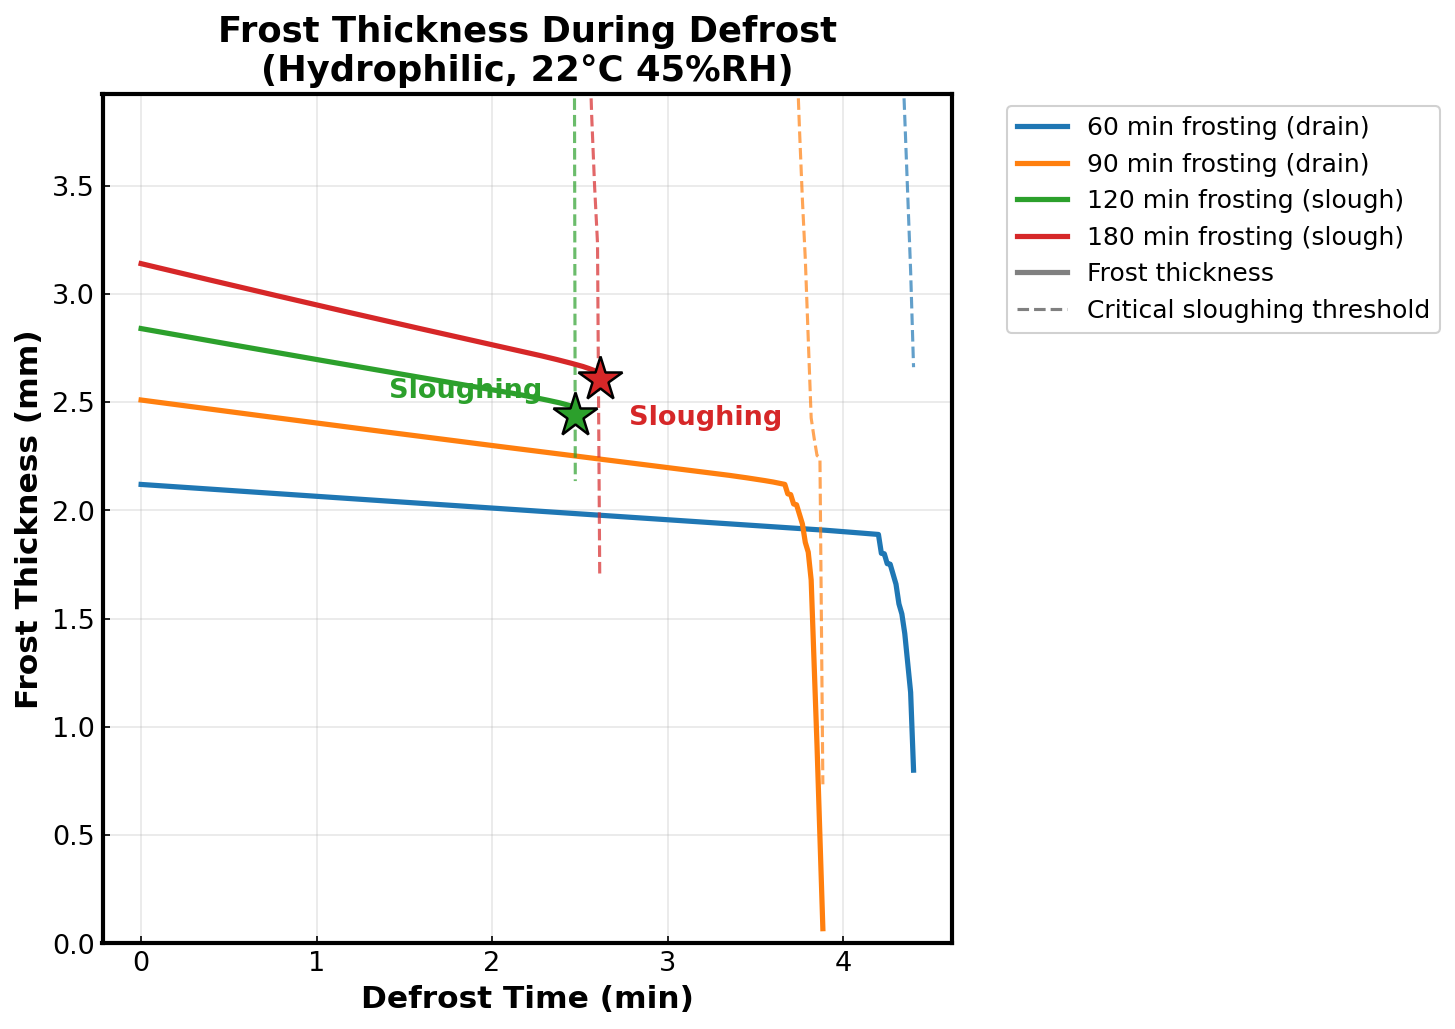
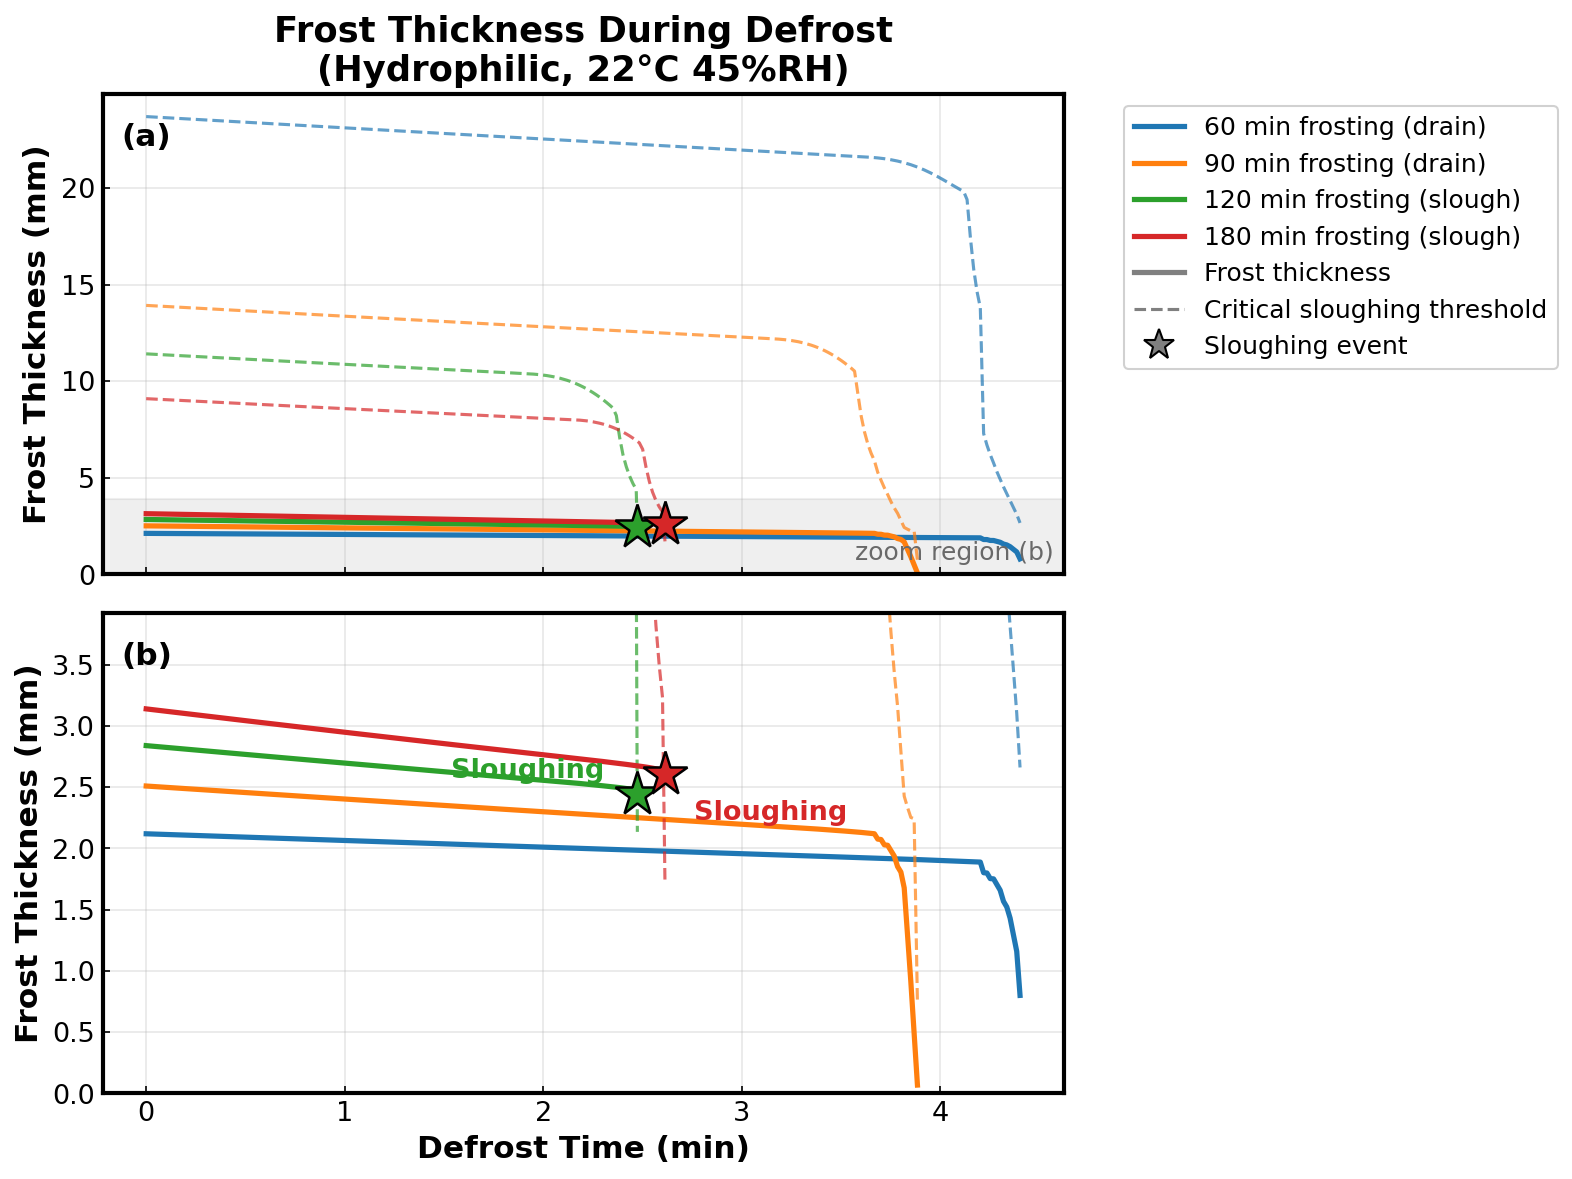
Split defrost thickness figure into full-view and zoom panels
The critical sloughing threshold starts an order of magnitude above the
frost thickness (9-24 mm vs 2-3 mm), so a single panel cannot show both.
Panel (a) shows the full threshold curves with the zoom region shaded;
panel (b) zooms on the frost thickness range where the thresholds cross
the thickness curves at the starred sloughing events.

Changed region(s): [[0.0, 0.0, 1.0, 0.9951], [0.5258, 0.1244, 0.5567, 0.1555]]

diff --git a/plot_defrost_thickness_comparison.py b/plot_defrost_thickness_comparison.py
@@ -85,10 +85,17 @@ def get_case_history(data_file, results_dir='sim_results/defrost_histories'):
     return history
 
 
-def plot_defrost_thickness_comparison(cases=None, output_dir='figure', figsize=(10, 7)):
+def plot_defrost_thickness_comparison(cases=None, output_dir='figure', figsize=(10, 8)):
     """
     Plot total frost thickness vs defrost time for several cases, with the
     critical sloughing thickness threshold and sloughing events marked.
+
+    Two vertically stacked panels:
+    (a) full view — thickness together with the complete critical sloughing
+        threshold curves, whose pre-melting values are an order of magnitude
+        larger than the frost thickness;
+    (b) zoom on the frost thickness range, where the threshold curves cross
+        the thickness curves at the sloughing events.
 
     Parameters
     ----------
@@ -112,9 +119,10 @@ def plot_defrost_thickness_comparison(cases=None, output_dir='figure', figsize=(
 
     colors = ['#1f77b4', '#ff7f0e', '#2ca02c', '#d62728', '#9467bd']
 
-    fig, ax = plt.subplots(figsize=figsize)
+    fig, (ax1, ax2) = plt.subplots(2, 1, figsize=figsize, sharex=True)
 
     max_thickness_mm = 0.0
+    max_crit_mm = 0.0
     n_slough_marked = 0
     for i, case in enumerate(cases):
         hist = histories[case]
@@ -123,59 +131,79 @@ def plot_defrost_thickness_comparison(cases=None, output_dir='figure', figsize=(
         h_total_mm = hist['h_total'] * 1000
         h_crit_mm = hist['h_crit'] * 1000
         max_thickness_mm = max(max_thickness_mm, np.nanmax(h_total_mm))
+        max_crit_mm = max(max_crit_mm, np.nanmax(h_crit_mm[np.isfinite(h_crit_mm)]))
 
         frosting_time = Path(case).stem.split('_')[0].replace('min', '')
         outcome = 'slough' if hist['sloughing'] else 'drain'
         label = f"{frosting_time} min frosting ({outcome})"
 
-        # Frost thickness history (solid)
-        ax.plot(time_min, h_total_mm, color=color, linewidth=2.5, label=label)
+        for ax in (ax1, ax2):
+            # Frost thickness history (solid)
+            ax.plot(time_min, h_total_mm, color=color, linewidth=2.5,
+                    label=label if ax is ax1 else None)
 
-        # Critical sloughing threshold history (dashed, same color)
-        ax.plot(time_min, h_crit_mm, color=color, linewidth=1.5,
-                linestyle='--', alpha=0.7)
+            # Critical sloughing threshold history (dashed, same color)
+            ax.plot(time_min, h_crit_mm, color=color, linewidth=1.5,
+                    linestyle='--', alpha=0.7)
 
-        # Mark the sloughing event where thickness reaches the threshold
+            # Mark the sloughing event where thickness reaches the threshold
+            if hist['sloughing']:
+                ax.plot(time_min[-1], h_total_mm[-1], marker='*', markersize=22,
+                        color=color, markeredgecolor='black', markeredgewidth=1.2,
+                        zorder=5)
+
+        # Annotate sloughing only in the zoom panel; alternate label placement
+        # so annotations of nearby events don't overlap
         if hist['sloughing']:
-            ax.plot(time_min[-1], h_total_mm[-1], marker='*', markersize=22,
-                    color=color, markeredgecolor='black', markeredgewidth=1.2,
-                    zorder=5)
-            # Alternate label placement so annotations of nearby events don't overlap
             offset, align = ((-16, 8), 'right') if n_slough_marked % 2 == 0 else ((14, -22), 'left')
-            ax.annotate('Sloughing', (time_min[-1], h_total_mm[-1]),
-                        textcoords='offset points', xytext=offset, ha=align,
-                        fontsize=13, fontweight='bold', color=color)
+            ax2.annotate('Sloughing', (time_min[-1], h_total_mm[-1]),
+                         textcoords='offset points', xytext=offset, ha=align,
+                         fontsize=13, fontweight='bold', color=color)
             n_slough_marked += 1
 
         print(f"  {case}: initial {h_total_mm[0]:.2f} mm, "
               f"{'sloughs at ' + format(time_min[-1], '.2f') + ' min' if hist['sloughing'] else 'drains'}")
 
-    # Clamp y-axis to the data: h_crit is very large before melt water appears
-    ax.set_ylim(0, max_thickness_mm * 1.25)
+    # Panel (a): full view including the large pre-melting threshold values
+    ax1.set_ylim(0, max_crit_mm * 1.05)
+    # Panel (b): zoom on the frost thickness range
+    ax2.set_ylim(0, max_thickness_mm * 1.25)
 
-    ax.set_xlabel('Defrost Time (min)', fontsize=15, fontweight='bold')
-    ax.set_ylabel('Frost Thickness (mm)', fontsize=15, fontweight='bold')
-    ax.set_title('Frost Thickness During Defrost\n(Hydrophilic, 22°C 45%RH)',
-                 fontsize=17, fontweight='bold')
-    ax.tick_params(axis='both', labelsize=13, direction='in')
-    ax.grid(True, alpha=0.3)
+    # Indicate the zoomed region of panel (b) in panel (a)
+    ax1.axhspan(0, max_thickness_mm * 1.25, color='gray', alpha=0.12, zorder=0)
+    ax1.annotate('zoom region (b)', (0.99, 0.02), xycoords='axes fraction',
+                 ha='right', va='bottom', fontsize=12, color='dimgray')
 
-    for spine in ax.spines.values():
-        spine.set_linewidth(2)
+    ax1.set_title('Frost Thickness During Defrost\n(Hydrophilic, 22°C 45%RH)',
+                  fontsize=17, fontweight='bold')
+    ax2.set_xlabel('Defrost Time (min)', fontsize=15, fontweight='bold')
+    for ax, panel in ((ax1, '(a)'), (ax2, '(b)')):
+        ax.set_ylabel('Frost Thickness (mm)', fontsize=15, fontweight='bold')
+        ax.tick_params(axis='both', labelsize=13, direction='in')
+        ax.grid(True, alpha=0.3)
+        for spine in ax.spines.values():
+            spine.set_linewidth(2)
+        ax.set_box_aspect(0.5)
+        ax.annotate(panel, (0.02, 0.94), xycoords='axes fraction',
+                    fontsize=15, fontweight='bold', va='top')
 
-    ax.set_box_aspect(1)
-
-    # Legend: case lines plus line-style indicators
+    # Legend: case lines plus line-style indicators (shared, outside right)
     from matplotlib.lines import Line2D
-    handles, labels = ax.get_legend_handles_labels()
+    handles, labels = ax1.get_legend_handles_labels()
     handles.append(Line2D([0], [0], color='gray', linewidth=2.5, linestyle='-'))
     labels.append('Frost thickness')
     handles.append(Line2D([0], [0], color='gray', linewidth=1.5, linestyle='--'))
     labels.append('Critical sloughing threshold')
-    ax.legend(handles, labels, bbox_to_anchor=(1.05, 1), loc='upper left',
-              fontsize=12, framealpha=0.9)
+    handles.append(Line2D([0], [0], marker='*', markersize=15, color='gray',
+                          markeredgecolor='black', linestyle='None'))
+    labels.append('Sloughing event')
+    ax1.legend(handles, labels, bbox_to_anchor=(1.05, 1), loc='upper left',
+               fontsize=12, framealpha=0.9)
 
     plt.tight_layout()
+
+    # Reduce space between subplots (after tight_layout, which would otherwise override it)
+    fig.subplots_adjust(hspace=0.08)
 
     output_path = Path(output_dir)
     output_path.mkdir(exist_ok=True)
